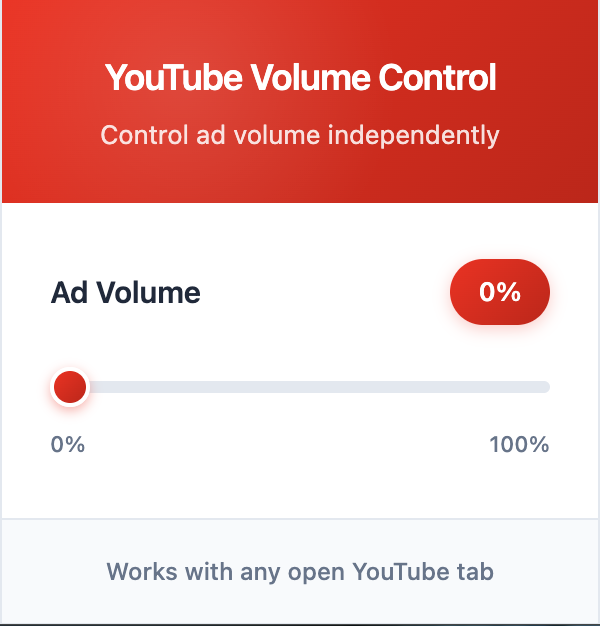
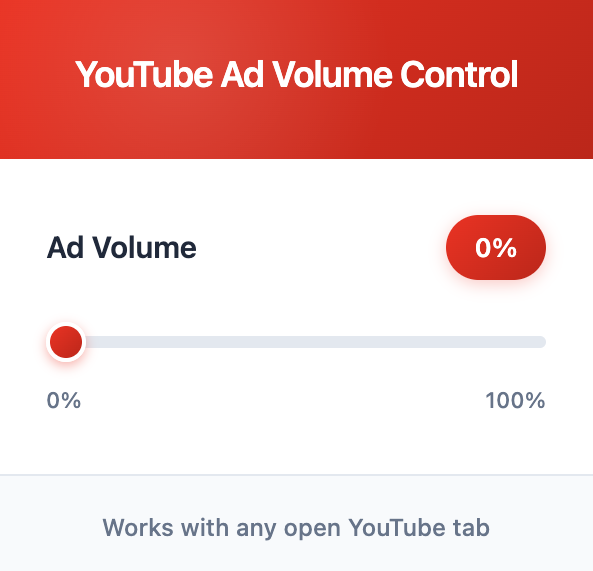
feat: update header title and improve subtitle messaging in popup

diff --git a/popup.js b/popup.js
@@ -60,10 +60,10 @@ document.addEventListener('DOMContentLoaded', function () {
     function updateTabIndicator(ytTab, currentTab) {
       const subtitle = document.querySelector('.subtitle');
       if (ytTab.id !== currentTab.id) {
-        subtitle.textContent = `Controlling: ${ytTab.title.substring(0, 30)}...`;
+        subtitle.textContent = `Tab: ${ytTab.title.substring(0, 30)}...`;
         subtitle.style.fontSize = '11px';
       } else {
-        subtitle.textContent = 'Control ad volume independently';
+        subtitle.textContent = '';
       }
     }
 

diff --git a/popup.html b/popup.html
@@ -235,7 +235,7 @@
 <body>
   <div class="container">
     <div class="header">
-      <h1>YouTube Volume Control</h1>
+      <h1>YouTube Ad Volume Control</h1>
       <div class="subtitle">Control ad volume independently</div>
     </div>
     
